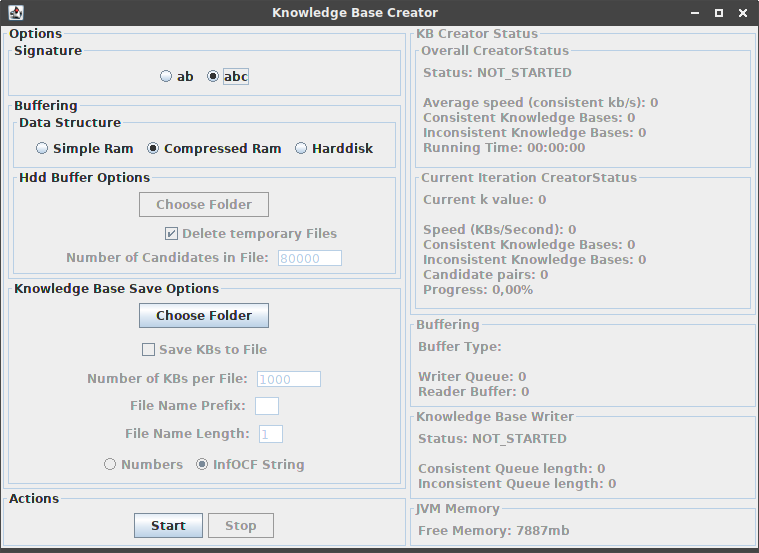
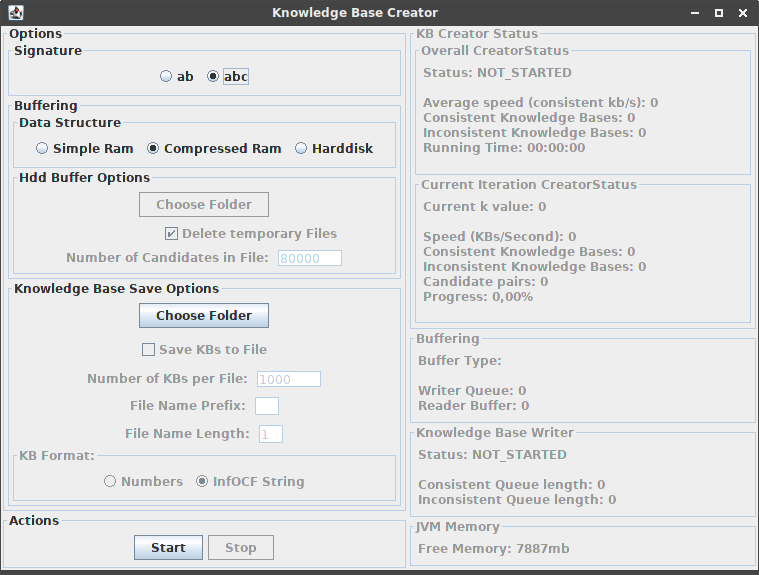
added some gui description

diff --git a/ma.tex b/ma.tex
@@ -822,8 +822,10 @@ Der KBFileWriter bietet für das Schreiben von Dateien die Option an, eine feste
 \subsection{DummyKbWriter}
 \label{sec:dummywriter}
 Auch der DummyKbWriter besitzt zwei gleich aufgebaute Threads: Einer kümmert sich um die \textit{consistentKbQueue}, der Andere bearbeitet die \textit{inconsistentKbQueue}. Beide Threads beobachten ihre Queue und sobald Elemente darin erscheinen, werden diese gezählt und sofort wieder gelöscht. Das Zählen findet einmal  in Bezug auf die Gesamtmenge des Programmverlaufs über alle Iterationen statt und einmal auf die aktuelle Iteration. Die gezählten Werte ruft die grafische Oberfläche dann ab, um sie für den Benutzer anzuzeigen. Weiterhin besitzt der DummyKbWriter noch eine Methode zum Iterationswechsel, die macht allerdings nichts anderes als den Zähler der Wissensbasen für die aktuelle Iteration wieder auf 0 zu setzen.
+
+
 \subsection{Beschreibung der grafischen Oberfläche}
-todo: neuer screen gesamt. auch an options die nummer kb option erklären
+todo: auch an options die nummer kb option erklären
 
 \begin{figure}
 \includegraphics[width=0.97\linewidth]{bilder/KbCreator_gesamt.png}
@@ -836,7 +838,7 @@ Die Grafische Oberfläche des KBCreators ist in \autoref{pic:kbcreator_gesamt} g
 Auf der Rechten Seite befindet sich die Anzeige für den aktuellen Status mit vielen Details. Wenn der Creator nicht läuft, ist die gesamte Rechte Seite ausgegraut. Wenn er läuft, werden die Informationen mit schwarzer Schrift dargestellt und laufend aktualisiert, die Aktualisierung übernimmt ein eigener Thread. Wenn der Creator gestoppt wird, wird die rechte Seite wieder ausgegraut. Die Informationen vom Zeitpunkt des Beenden des Creators werden jedoch weiterhin angezeigt. \\
 Die Bedienung des KbCreators erfolgt ausschließlich über die GUI und nicht über das Terminal. Die meisten Informationen werden auch auf der GUI angezeigt. Im Terminal werden noch einige zusätzliche Informationen angezeigt, insbesondere zum Wechsel der Iterationen oder wenn unerwartete Fehler auftreten sollten.
 \subsubsection{Optionen und Start}
-Auf der linken Seite befinden sich die einstellbaren Optionen für den KBCreator. Ganz oben lässt sich die Signatur auswählen, als Optionen stehen \textit{ab} und \textit{abc} bereit. Default ist \textit{abc}. Im zweiten Abschnitt wird das Buffering gewählt, also die konkrete Vairante zur Zwischenspeicherung der Daten während des Programmablaufs wie unter \autoref{sec:pairbuffer} beschrieben. Es stehen die drei dort vorgestellten Varianten zur Verfügung. Die Voreingestellung ist der CompressedRamBuffer. Wenn hier der Radiobutton für \textit{Harddisk} ausgewählt wird, wird das darunterliegende Panel freigeschaltet. Hier befinden sich die genaueren Einstellungen für die Zwischenspeicherung auf der Festplatte. Sie sind nur bei aktivierter Speicherung der Daten auf der Festplatte freigeschaltet, weil die Einstellungen nur dann sinnvoll sind. Zum einen lässt sich dann der Ordner auswählen, in dem die Daten zwischengespeichert werden. Hier kann der selbe Ordner ausgewählt werden wie zum Speichern der Wissensbasen selbst denn es werden automatisch Unterordner erzeugt sodass sich die Daten nicht vermischen würden. Darunter befindet sich eine standardmäßig aktivierte Checkbox, die das automatische löschen der temporären Dateien einstellt. Als dritte Option kann die Menge der Paare $<R,C>$ aus Wissensbasen und Kandidaten eingestellt werden, die zusammen in einer Textdatei gespeichert werden. Hohe Werte sind hier sinnvoll, damit keine riesigen Mengen an kleinen Dateien geschrieben und wieder gelöscht werden müssen. \\
+Auf der linken Seite befinden sich die einstellbaren Optionen für den KBCreator. Ganz oben lässt sich die Signatur auswählen, als Optionen stehen \textit{ab} und \textit{abc} bereit. Default ist \textit{abc}. Im zweiten Abschnitt wird das Buffering gewählt, also die konkrete Vairante zur Zwischenspeicherung der Daten während des Programmablaufs wie unter \autoref{sec:pairbuffer} beschrieben. Es stehen die drei dort vorgestellten Varianten zur Verfügung. Die Voreingestellung ist der CompressedRamBuffer. Wenn hier der Radiobutton für \textit{Harddisk} ausgewählt wird, wird das darunterliegende Panel freigeschaltet. Hier befinden sich die genaueren Einstellungen für die Zwischenspeicherung auf der Festplatte. Sie sind nur bei aktivierter Speicherung der Daten auf der Festplatte freigeschaltet, weil die Einstellungen nur dann sinnvoll sind. Zum einen lässt sich dann der Ordner auswählen, in dem die Daten zwischengespeichert werden. Hier kann der selbe Ordner ausgewählt werden wie zum Speichern der Wissensbasen selbst denn es werden automatisch Unterordner erzeugt sodass sich die Daten nicht vermischen würden. Darunter befindet sich eine standardmäßig aktivierte Checkbox, die das automatische löschen der temporären Dateien einstellt. Wird das Häkchen entfernt, werden die temporären Daten nicht automatisch gelöscht und können vom Benutzer betrachtet werden. Als dritte Option kann die Menge der Paare $<R,C>$ aus Wissensbasen und Kandidaten eingestellt werden, die zusammen in einer Textdatei gespeichert werden. Hohe Werte sind hier sinnvoll, damit keine zu großen Mengen an kleinen Dateien geschrieben und wieder gelöscht werden müssen. \\
 Darunter befinden sich die letzte Kategorie der Optionen mit dem Einstellungen zum Speichern der Wissensbasen. Ganz oben kann ein Ordner ausgewählt werden, in dem die Wissensbasen gespeichert werden. Für die Wissensbasen wird dann automatisch ein Unterordner erstellt und weitere Unterordner für die Iterationen $k$. Wenn ein gültiger Ordner ausgewählt ist wird als Option zum Speichern der \textit{KbFileWriter} wie in \autoref{sec:kbfilewriter} beschrieben aktiviert und die weiteren Optionen zum Speichern freigeschaltet. Wird kein Ordner ausgewählt, werden die Wissensbasen nicht gespeichert und es wird die Option \textit{DummyWriter} wie in \autoref{sec:dummywriter} beschrieben verwendet. Für das Zwischenspeichern der Daten stehen folgende Optionen bereit: Erstens die Checkbox, dass die Daten denn gespeichert werden sollen. Mit ihr kann einmal eingestelltes Speichern wieder deaktiviert werden. Als nächstes Kann die Anzahl der Wissensbasen eingestellt werden, die pro Datei abgespeichert werden soll. Danach kann ein Präfix für die namen Wisensbasen selbst  und die Dateinamen vergeben werden. Wenn Beispielsweise hier \glqq kb\grqq \space eingetragen wird, werden die Wissensbasen nach dem Schema \glqq kb + [laufende Nummer]\grqq \space vergeben. Die Dateinamen erhalten dann das Präfix ebenfalls. \\
 Ganz unten befinden sich die Buttons für Start und Stop. Von den Buttons ist jeweils nur der aktuell sinnvolle aktiviert und der andere ausgegraut. Mit \glqq Start \grqq \space werden die aktuell eingestellten Optionen verwendet und die Generierung der Wissensbasen beginnt. Das betätigen von Start deaktiviert graut auch alle Einstellmöglichkeiten aus. Die Einstellungen selbst bleiben jedoch bestehen, sodass man diese später auch bei Bedarf noch anchsehen kann. Mit drücken des Buttons \glqq Stop \grqq \space kann die Generierung wieder gestoppt werden.
 \subsubsection{Statusanzeige}
